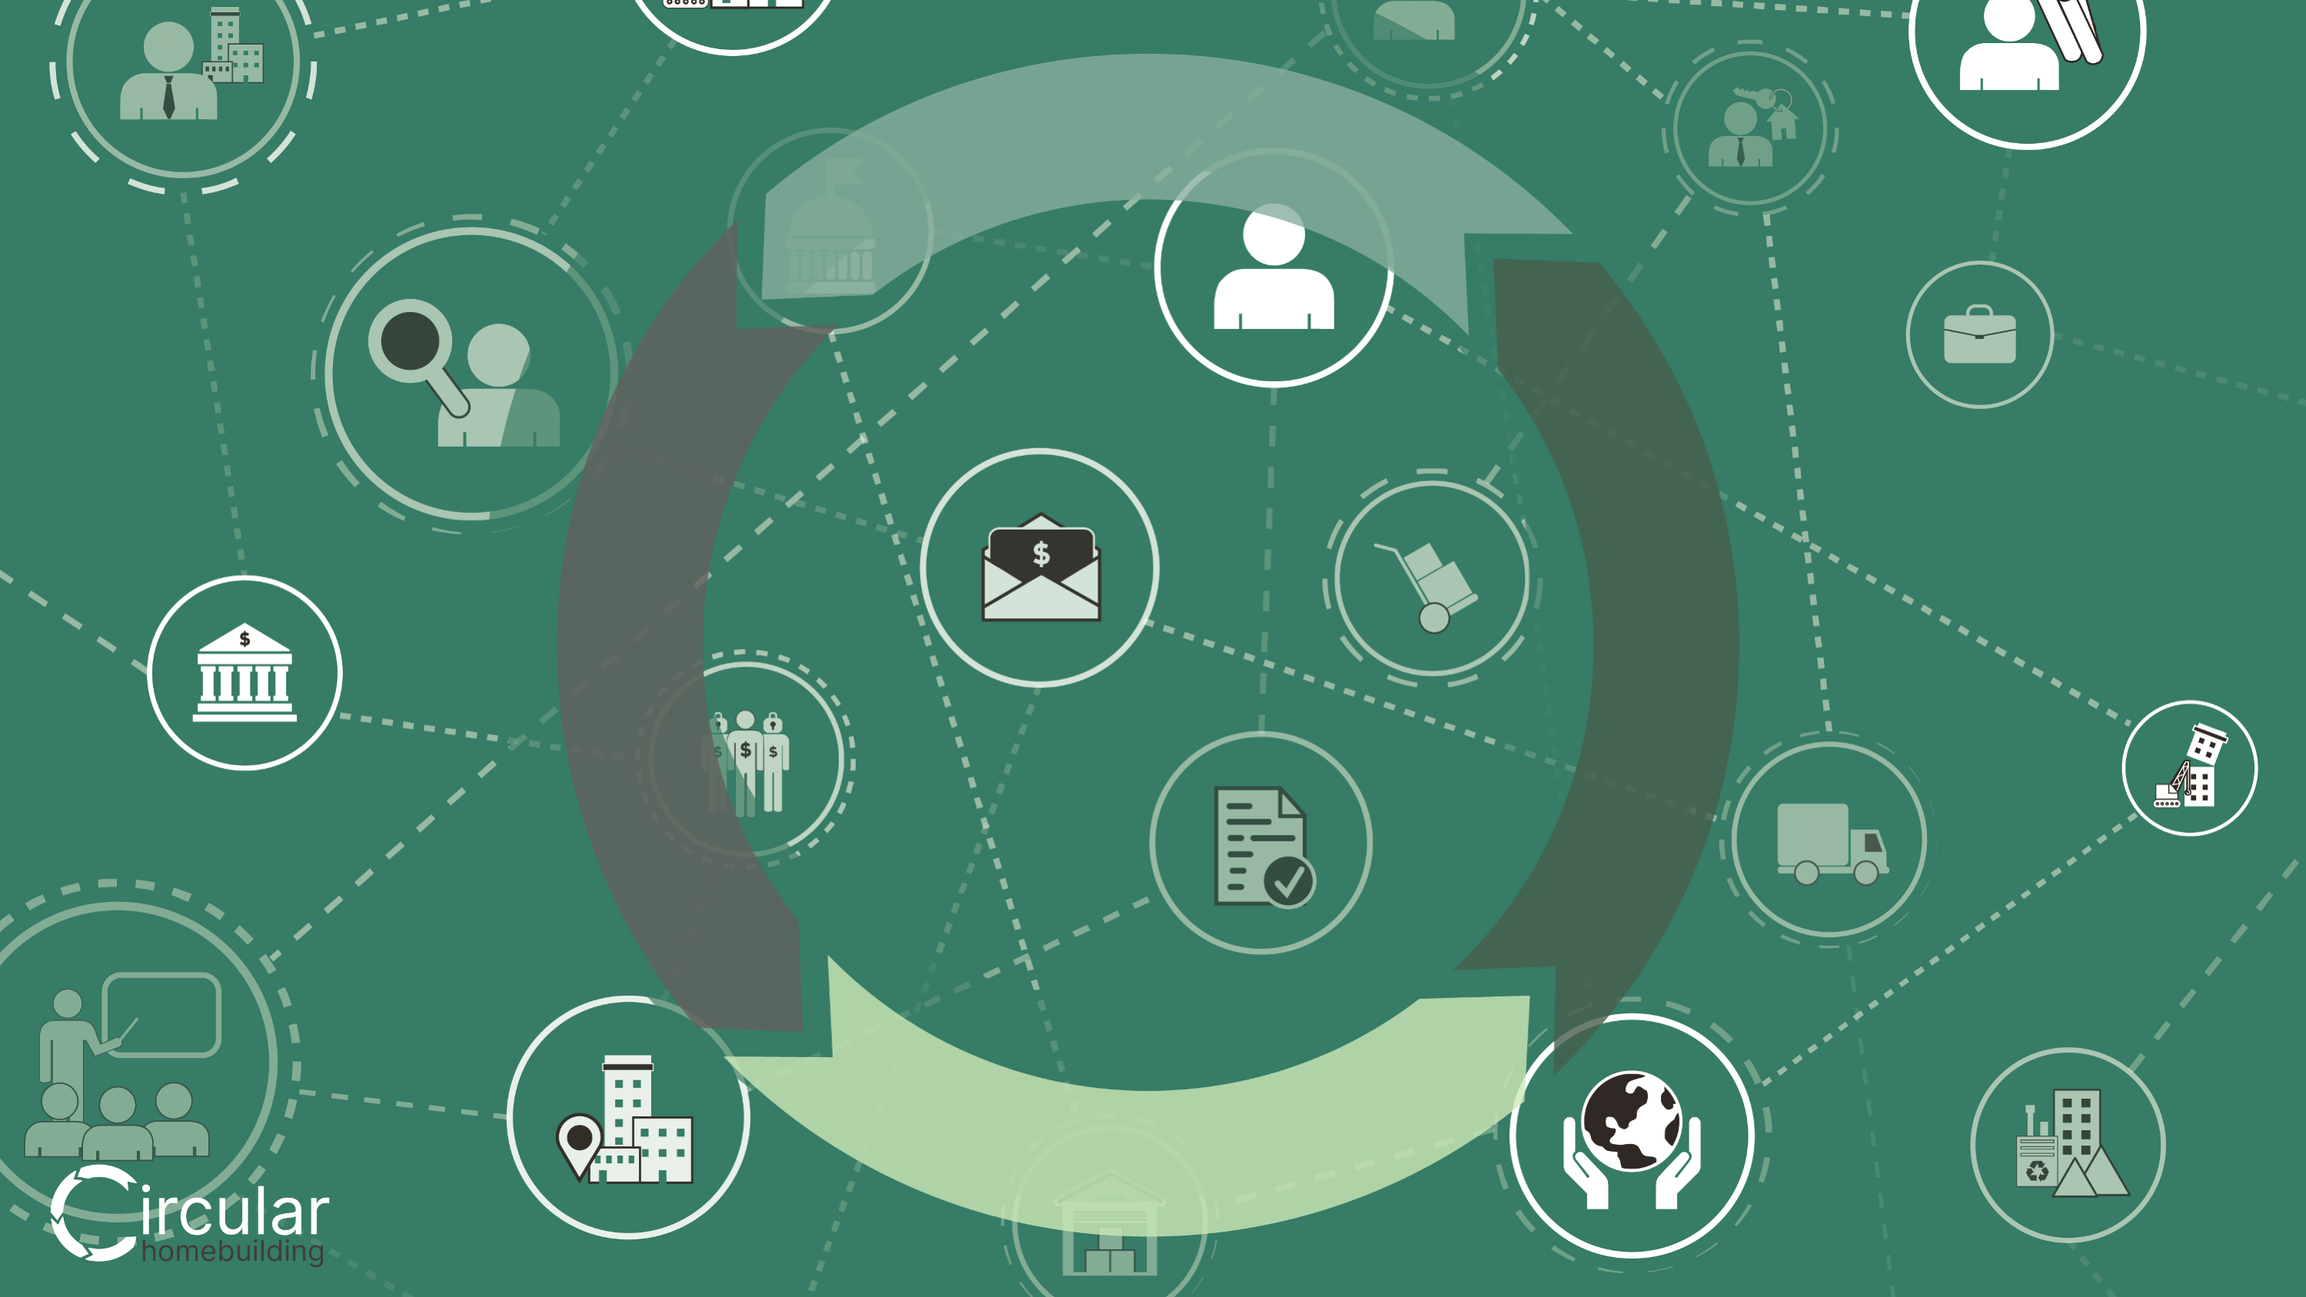
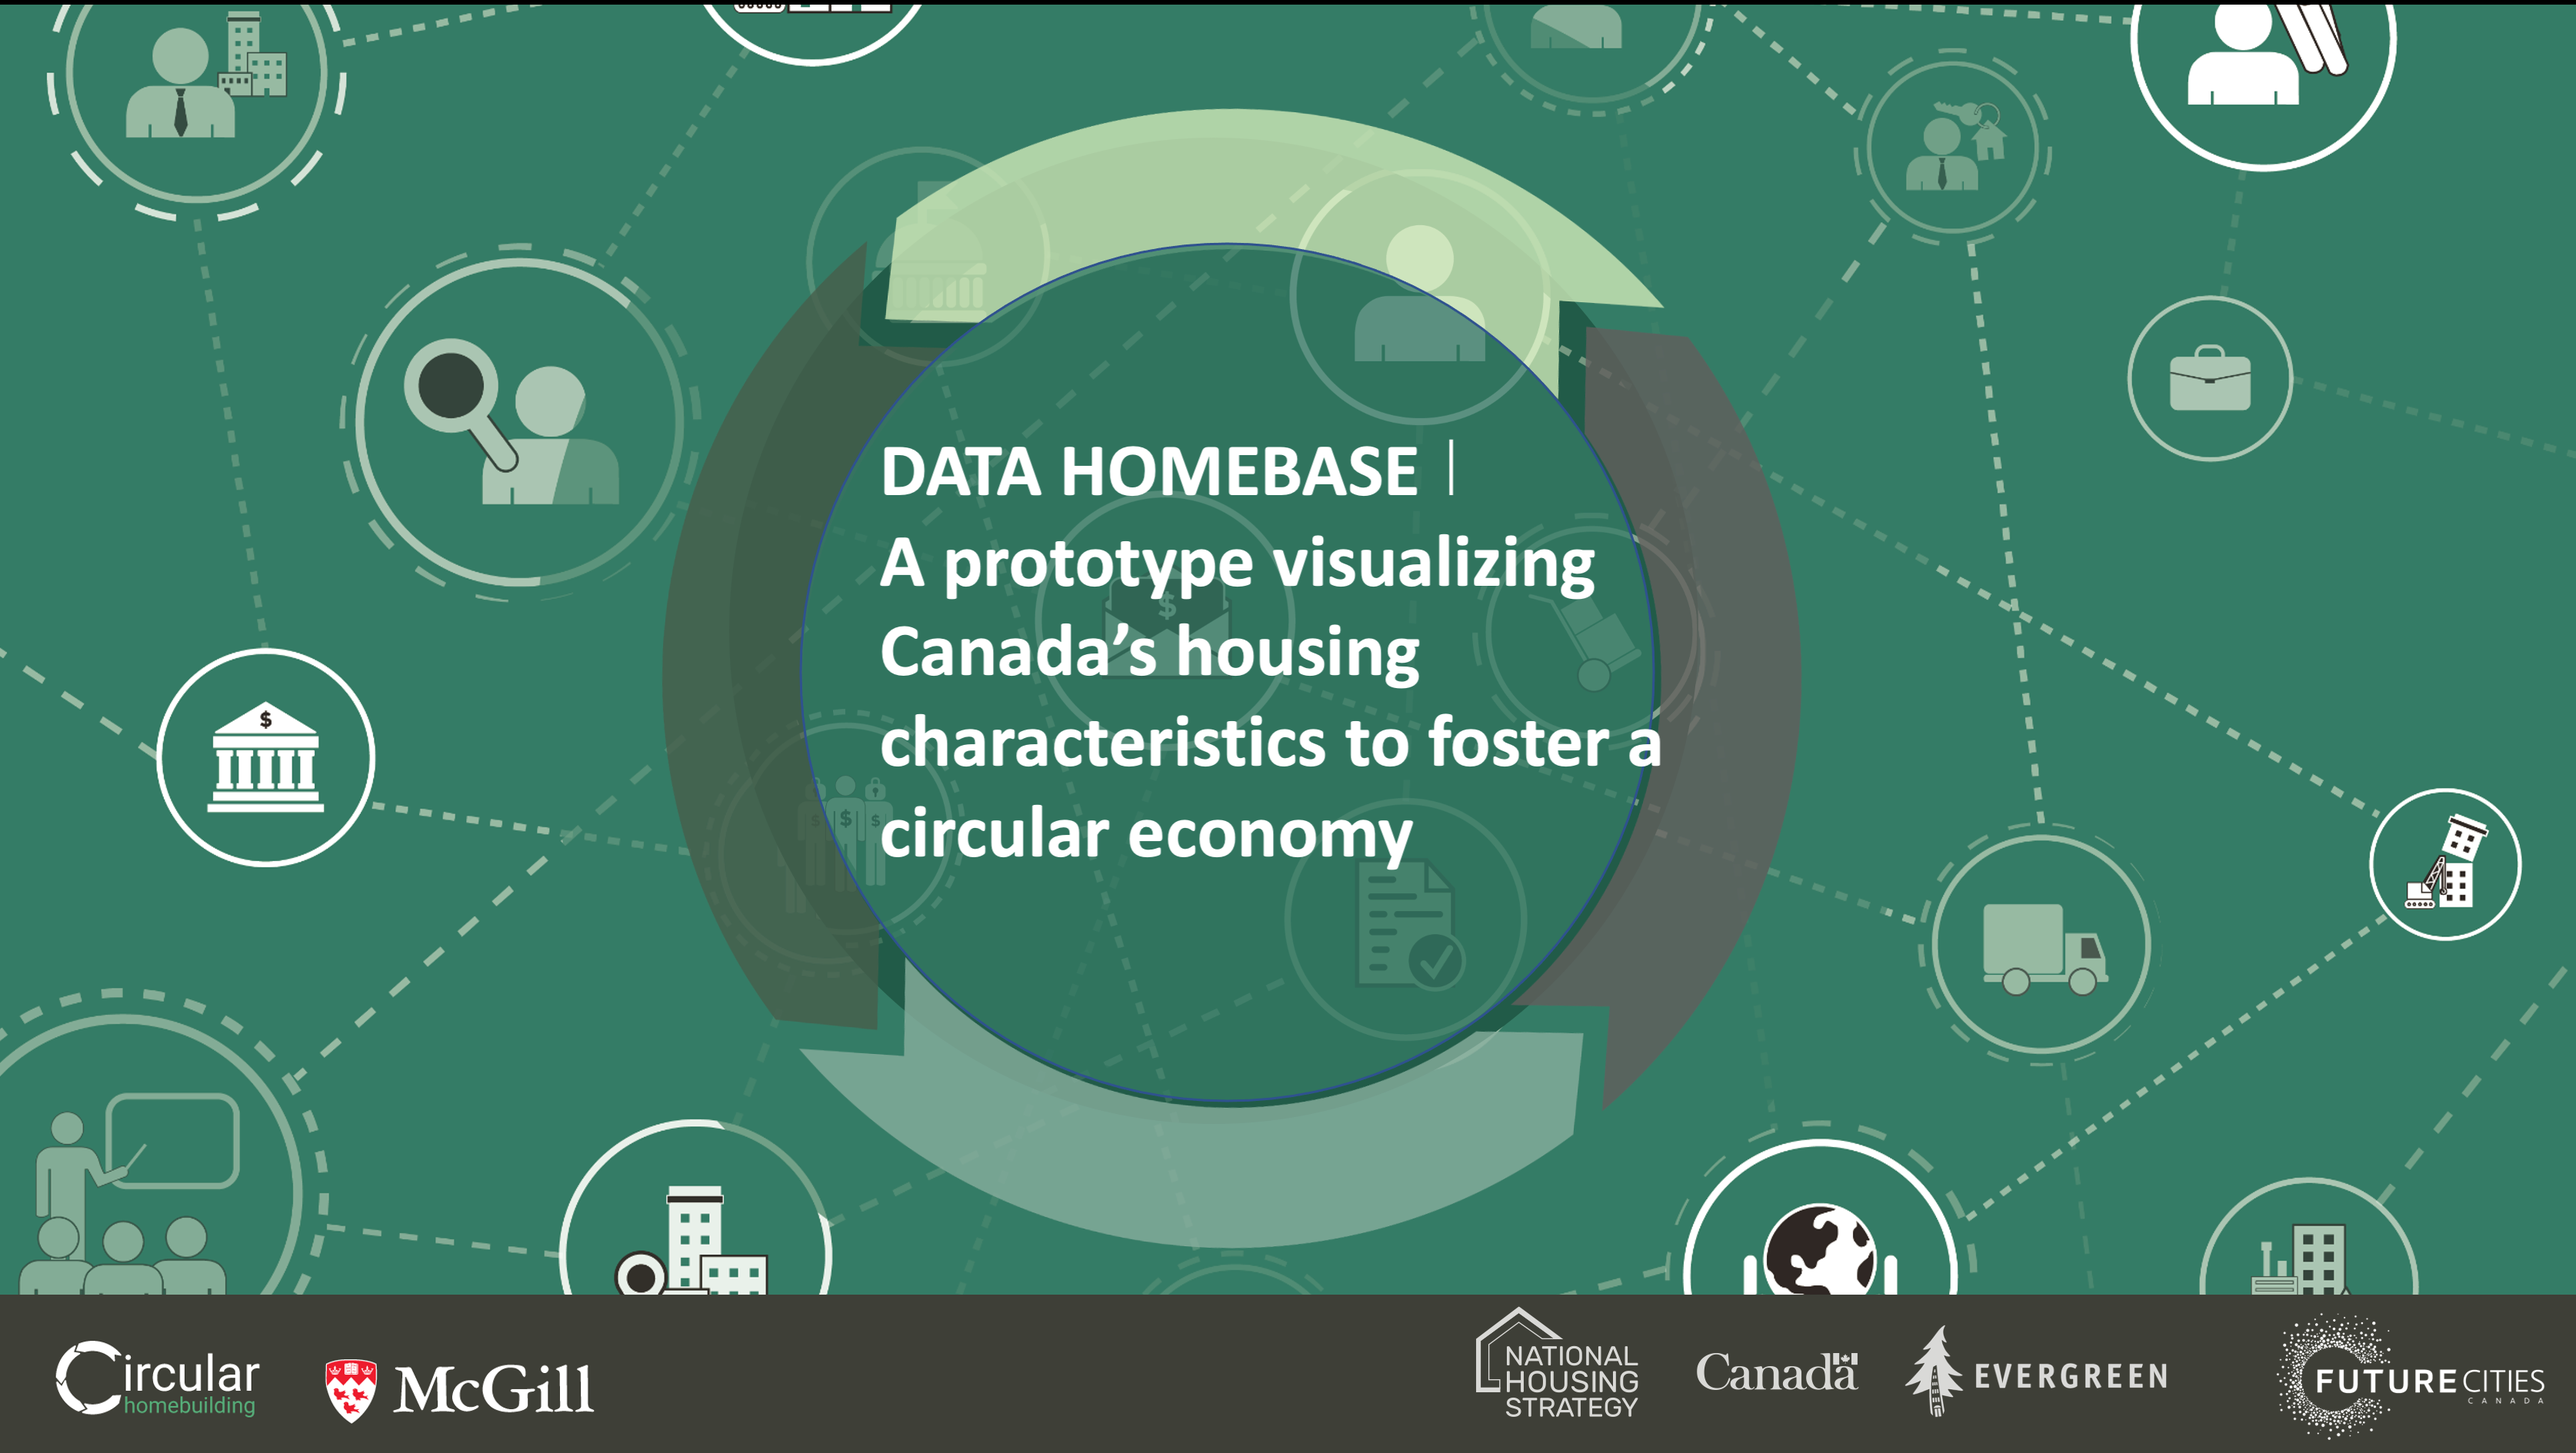
contact form working

diff --git a/content/authors/hermine-demaël/_index.md b/content/authors/hermine-demaël/_index.md
@@ -1,9 +1,41 @@
 ---
 title: Hermine Demaël
+role: Research Project Manager
 avatar_filename: avatar
-interests: []
-social: []
+interests:
+  - Architectural Design
+  - Socio-Ecological Design
+  - Social Relations and Collaboration in the Housing Sector 
+  - Degrowth 
+
+education:
+  courses:
+    - course: (incoming) M.Arch (AP)
+      institution:  Princeton University
+    - course: B.Sc. (Architecture)
+      institution: McGill University
+
+
+social:
+  - icon: envelope
+    icon_pack: fas
+    link: mailto:hermine.demael@mcgill.ca
+
+
+
 superuser: false
 user_groups:
   - Researchers
 ---
+
+
+
+I am an architectural designer and researcher. 
+At McGill, I work on a variety of research topics, mostly striving to develop stakeholder engagement towards the implementation of a circular economy in the built environment. I am a project manager for the Data Homebase, a CMHC funded data-driven initiative which aims to develop a web-based platform for standardized and organized information, namely Housing Passports, as well as data visualization tools to enable circular economy decision-making for housing across Canada. 
+My personal research interests revolve around how tools of architectural production and representation affect our conception of the timeframes we design in. I am interested in developing computational and theoretical frameworks designed to navigate dictates of immediacy and conceive architecture(s) within contemporary conditions of uncertainty and doubt. 
+In parallel, I also collaborate with MOS Architects, based in NYC. 
+
+
+Currently Working on the projects : 
+<a href='http://localhost:1313/project/data-homebase/'  >Data Homebase </a>
+</br>

diff --git a/content/project/circular-crd/index.md b/content/project/circular-crd/index.md
@@ -2,7 +2,7 @@
 
 url_pdf: ""
 summary: ""
-authors: []
+authors: ""
 url_video: ""
 date: 2022-05-24T17:57:46.822Z
 external_link: ""
@@ -10,8 +10,8 @@ url_slides: ""
 title: Circular CRD
 subtitle: "Laying the foundation for constructive stakeholder engagement on improving construction, renovation and demolition (CRD) waste management "
 tags:
-  - Architecture
-  - Built and urban ecologies
+  - architecture
+  - built and urban ecologies
   - circular economy 
   - circular built environments 
 links:
@@ -20,8 +20,7 @@ links:
     name: Website
     url: http://datahomebase.research.mcgill.ca
 image:
-  caption: Photo by rawpixel on Unsplash
-  focal_point: Smart
+  
 url_code: ""
 ---
 The city of Montréal is one of many cities worldwide who strive to cut the amount of waste they generate and advance towards zero waste in an effort to meet the Paris Agreement goals. Construction, renovation and demolition (CRD) waste is a major contributor to urban waste streams but also an area where waste diversion and innovative waste management approaches could deliver significant reductions in waste. One such promising approach is that of circular economy which envisions a future where CRD waste is designed-out of the built environment by keeping construction materials in use. This research project seeks to answer three questions: (1) How best can CRD waste be eliminated?; (2) Which circular economy principles and methods could be effective in ensuring sustainable CRD material management and implementation for Montréal?; and (3) What kind of stakeholder partnerships are necessary to advance towards zero CRD waste? 

diff --git a/content/authors/admin/_index.md b/content/authors/admin/_index.md
@@ -6,11 +6,9 @@ bio: Naomi Keena, architect and interdisciplinary researcher, is Assistant
   Professor at McGill University’s Peter Guo-hua Fu School of Architecture.
 interests:
   - Architecture and Design
-  - Land Management
-  - Architectural Conception
-  - Environmental Design
-  - Social and Cultural
-  - Factors of Environmental Protection
+  - Socio-ecological  Design
+  - Data Visulisation
+  - Circular Economy
   - Sustainable Development
 
 social:
@@ -34,23 +32,11 @@ organizations:
     url: https://www.mcgill.ca
 education:
   courses:
-    - course: Doctorate, Doctor of Philosophy, Architectural Sciences
-      institution:  Rensselaer Polytechnic Institute
-      year: 2017
-    - course: Master's non-Thesis, Masters of Architecture II (Post-Professional), Architectural Sciences
-      institution: Rensselaer Polytechnic Institute
-      year: 2014
-    - course: Master's Thesis, Master of Science in Architecture, Architecture
-      institution: The Pratt Institute
-      year: 2010
-
-    - course: Bachelor's Honours, Bachelors in Architecture, Architecture
-      institution:  University College, Dublin
-
-      year: 2005
-    - course: Bachelor's, Bachelors in Architectural Science, Architecture
-      institution:  University College, Dublin
-      year: 2002
+    - course:  Ph.D. (Architectural Sciences)
+    - course: M.Arch.II (Architectural Sciences)
+    - course: M.Sc.(Architecture)
+    - course: B.Arch.(Architecture)
+    - course: B.Sc.(Architecture)
 
 
 email: ""

diff --git a/content/project/data-homebase/index.md b/content/project/data-homebase/index.md
@@ -10,8 +10,8 @@ url_slides: ""
 title: DATA HOMEBASE
 subtitle: "A prototype visualizing Canada’s housing characteristics to foster a circular economy"
 tags:
-  - Architecture
-  - Built and urban ecologies
+  - architecture
+  - built and urban ecologies
   - circular economy 
   - circular built environments 
   - data visualization 
@@ -20,13 +20,11 @@ tags:
   - socio-ecological design
   - sustainable development
   - visual analytics
-  - Architectural Conception
-  - Environmental Design
-  - Environment Dynamics
-  - Social and Cultural
-  - Factors of Environmental 
-  - Protection
-  - Sustainable Development
+  - architectural conception
+  - environmental Design
+  - environment Dynamics
+  - social and cultural
+  - sustainable sevelopment
 links:
   - icon: favicon
     icon_pack: fab

diff --git a/content/home/contact.md b/content/home/contact.md
@@ -15,19 +15,22 @@ content:
   # Automatically link email and phone or display as text?
   autolink: true
 
+
+  # For Captcha
+  # https://www.google.com/recaptcha/admin/create
+
   # Email form provider
   form:
-    provider: netlify
-    formspree:
-      id:
-    netlify:
+    provider: formspree
+    formspree: 
+      id: xdobbjjv
       # Enable CAPTCHA challenge to reduce spam?
       captcha: false
 
   # Contact details (edit or remove options as required)
   email: naomi.keena@mcgill.ca
   address:
-    street: Room 201 Macdonald-Harrington Building 815 Sherbrooke Street West Montreal, Quebec
+    street: Room 305 Macdonald-Harrington Building 815 Sherbrooke Street West Montreal, Quebec
 
 
     postcode: 'H3A 0C2'

diff --git a/content/home/featured.md b/content/home/featured.md
@@ -9,14 +9,14 @@ headless: true
 # Order that this section appears on the page.
 weight: 80
 
-title: Publications
+title: Selected Publications
 subtitle: ''
 
 content:
   # Page type to display. E.g. post, talk, publication...
   page_type: publication
   # Choose how many pages you would like to display (0 = all pages)
-  count: 0
+  count: 3
   # Filter on criteria
   filters:
     author: ''

diff --git a/content/project/sustainability-housing-in-a-circular-economy/index.md b/content/project/sustainability-housing-in-a-circular-economy/index.md
@@ -10,8 +10,8 @@ url_slides: ""
 title: Sustainability Housing in a Circular Economy
 subtitle: "This is the subtitle"
 tags:
-  - Architecture
-  - Built and urban ecologies
+  - architecture
+  - built and urban ecologies
 links:
   - icon: favicon
     icon_pack: fab

diff --git a/content/project/embodied-carbon-and-the-built-environment/index.md b/content/project/embodied-carbon-and-the-built-environment/index.md
@@ -10,8 +10,8 @@ url_slides: ""
 title: Embodied Carbon & the Built Environment
 subtitle: "This is the subtitle"
 tags:
-  - Architecture
-  - Built and urban ecologies
+  - architecture
+  - built and urban ecologies
   - circular economy 
  
 links:

diff --git a/content/event/Green-Building-Council/index.md b/content/event/Green-Building-Council/index.md
@@ -33,8 +33,7 @@ tags: []
 featured: true
 
 image:
-  caption: 'Image credit: [**Unsplash**](https://unsplash.com/photos/bzdhc5b3Bxs)'
-  focal_point: Right
+  
 
 
 #url_code: ''

diff --git a/content/authors/dr-avi-friedman/_index.md b/content/authors/dr-avi-friedman/_index.md
@@ -16,7 +16,7 @@ social:
     link: https://www.mcgill.ca/architecture/avi-friedman
 superuser: false
 user_groups:
-  - Members
+  - NotMembers
 ---
 <!--StartFragment-->
 
